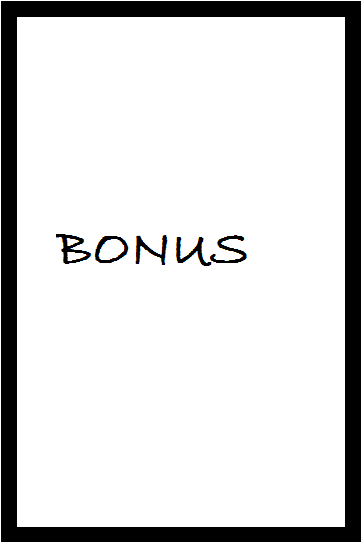
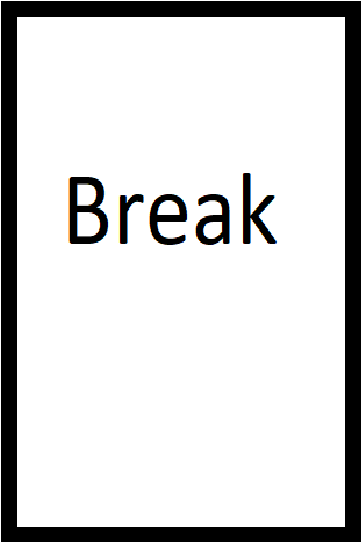
shuffling, updating attributes done

Changed region(s): [[0.1519, 0.2952, 0.7597, 0.5018]]

diff --git a/EoM/Assets/Scripts/PlayerAttributes.cs b/EoM/Assets/Scripts/PlayerAttributes.cs
@@ -7,6 +7,8 @@ public class PlayerAttributes : MonoBehaviour
     int enthusiasm;
     int capital;
     int network;
+    public FollowThePath position;
+    public Cards blankPosition;
     // Start is called before the first frame update
     void Start()
     {
@@ -16,8 +18,129 @@ public class PlayerAttributes : MonoBehaviour
     }
 
     // Update is called once per frame
-    void Update()
+    public void updateAttributes()
     {
+        //Tuesdays
+        if (position.waypointIndex==1 || position.waypointIndex==12 || position.waypointIndex==23 || position.waypointIndex==31)
+        {
+            enthusiasm+=-10;
+            capital+=0;
+            network+=20;
+        }
+
+
+        //Wednesdays
+        else if (position.waypointIndex==2 || position.waypointIndex==14 || position.waypointIndex==25 || position.waypointIndex==35)
+        {
+            enthusiasm+=0;
+            capital+=20;
+            network+=20;
+        }
         
+        //Thursdays
+        else if (position.waypointIndex==4 || position.waypointIndex==16 || position.waypointIndex==26 || position.waypointIndex==33)
+        {
+            enthusiasm+=0;
+            capital+=10;
+            network+=10;
+        }
+
+        //Fridays
+        else if (position.waypointIndex==6 || position.waypointIndex==17 || position.waypointIndex==27)
+        {
+            enthusiasm+=20;
+            capital+=10;
+            network+=0;
+        }
+
+        //Saturdays
+        else if (position.waypointIndex==8 || position.waypointIndex==18 || position.waypointIndex==28)
+        {
+            enthusiasm+=20;
+            capital+=0;
+            network+=-30;
+        }
+
+        //Sundays
+        else if (position.waypointIndex==9 || position.waypointIndex==19 || position.waypointIndex==29)
+        {
+            enthusiasm+=0;
+            capital+=20;
+            network+=30;
+        }
+
+        //Mondays
+        else if (position.waypointIndex==10 || position.waypointIndex==21 || position.waypointIndex==36)
+        {
+            enthusiasm+=-20;
+            capital+=-10;
+            network+=0;
+        }
+
+        //blankPosition
+        else if (position.waypointIndex==3 || position.waypointIndex==5 || position.waypointIndex==7 || position.waypointIndex==11
+        || position.waypointIndex==13 || position.waypointIndex==15 || position.waypointIndex==20 || position.waypointIndex==22 
+        || position.waypointIndex==24 || position.waypointIndex==30 || position.waypointIndex==32 || position.waypointIndex==34)
+        {
+            blankPosition.ShuffleCard();
+            print("ddfgf");
+            //Meeting
+            if (blankPosition.finalSide==2)
+            {
+                enthusiasm+=-20;
+                capital+=10;
+                network+=0;
+                Debug.Log("Card drawn = "+blankPosition.finalSide);
+            }
+
+            //Party
+            if (blankPosition.finalSide==3)
+            {
+                enthusiasm+=30;
+                capital+=0;
+                network+=-30;
+                Debug.Log("Card drawn = "+blankPosition.finalSide);
+            }
+
+            //Leave
+            if (blankPosition.finalSide==5)
+            {
+                enthusiasm+=20;
+                capital+=-20;
+                network+=0;
+                Debug.Log("Card drawn = "+blankPosition.finalSide);
+            }
+
+            //Bonus
+            if (blankPosition.finalSide==6)
+            {
+                enthusiasm+=30;
+                capital+=0;
+                network+=30;
+                Debug.Log("Card drawn = "+blankPosition.finalSide);
+            }
+
+            //Break
+            if (blankPosition.finalSide==7)
+            {
+                enthusiasm+=10;
+                capital+=0;
+                network+=-20;
+                Debug.Log("Card drawn = "+blankPosition.finalSide);
+            }
+
+            //Promotion
+            if (blankPosition.finalSide==8)
+            {
+                enthusiasm+=20;
+                capital+=20;
+                network+=0;
+                Debug.Log("Card drawn = "+blankPosition.finalSide);
+            }
+        }
+
+        Debug.Log(enthusiasm);
+        Debug.Log(capital);
+        Debug.Log(network);
     }
 }

diff --git a/EoM/Assets/Scripts/Cards.cs b/EoM/Assets/Scripts/Cards.cs
@@ -5,11 +5,12 @@ public class Cards : MonoBehaviour {
 
     // Array of dice sides sprites to load from Resources folder
     private Sprite[] cardSides;
-
+    int randomCardSide;
     public int cardSideThrown=0;
 
     // Reference to sprite renderer to change sprites
     private SpriteRenderer rend;
+    public int finalSide = 0;
 
 	// Use this for initialization
 	private void Start () {
@@ -21,41 +22,36 @@ public class Cards : MonoBehaviour {
         cardSides = Resources.LoadAll<Sprite>("Cards/");
 	}
 	
-    // If you left click over the dice then RollTheDice coroutine is started
-    private void OnMouseDown()
-    {
-        StartCoroutine("ShuffelTheDice");
-    }
 
-    // Coroutine that rolls the dice
-    private IEnumerator ShuffelTheDice()
+    public void ShuffleCard()
     {
         // Variable to contain random dice side number.
         // It needs to be assigned. Let it be 0 initially
-        int randomCardSide = 0;
 
-        // Final side or value that dice reads in the end of coroutine
-        int finalSide = 0;
-
+        StartCoroutine("cardAnimation");
         // Loop to switch dice sides ramdomly
         // before final side appears. 20 itterations here.
+        // Assigning final side so you can use this value later in your game
+        // for player movement for example
+        finalSide = randomCardSide + 1;
+      
+        // Show final dice value in Console
+        Debug.Log("Card selected = "+finalSide);
+    }
+
+    private IEnumerator cardAnimation()
+    {
+        randomCardSide = 0;
         for (int i = 0; i <= 20; i++)
         {
-            // Pick up random value from 0 to 5 (All inclusive)
+            // Pick up random value from 0 to 7 (All inclusive)
             randomCardSide = Random.Range(0, 7);
 
             // Set sprite to upper face of dice from array according to random value
             rend.sprite = cardSides[randomCardSide];
 
             // Pause before next itteration
-            yield return new WaitForSeconds(0.05f);
+            yield return new WaitForSeconds(0.05f);   
         }
-
-        // Assigning final side so you can use this value later in your game
-        // for player movement for example
-        finalSide = randomCardSide + 1;
-      
-        // Show final dice value in Console
-        Debug.Log(finalSide);
     }
 }

diff --git a/EoM/Assets/Scripts/Dice.cs b/EoM/Assets/Scripts/Dice.cs
@@ -8,7 +8,7 @@ public class Dice : MonoBehaviour {
     private SpriteRenderer rend;                        // Reference to sprite renderer to change sprites
     public GameControl controller;
     public FollowThePath move;
-	
+	public PlayerAttributes changeAttributes;
     
     private void Start ()                               // Use this for initialization
 	{
@@ -46,6 +46,7 @@ public class Dice : MonoBehaviour {
 
         Debug.Log(finalSide);                           // Show final dice value in Console
         controller.MovePlayer();
+        changeAttributes.updateAttributes();
 
     }
 }
